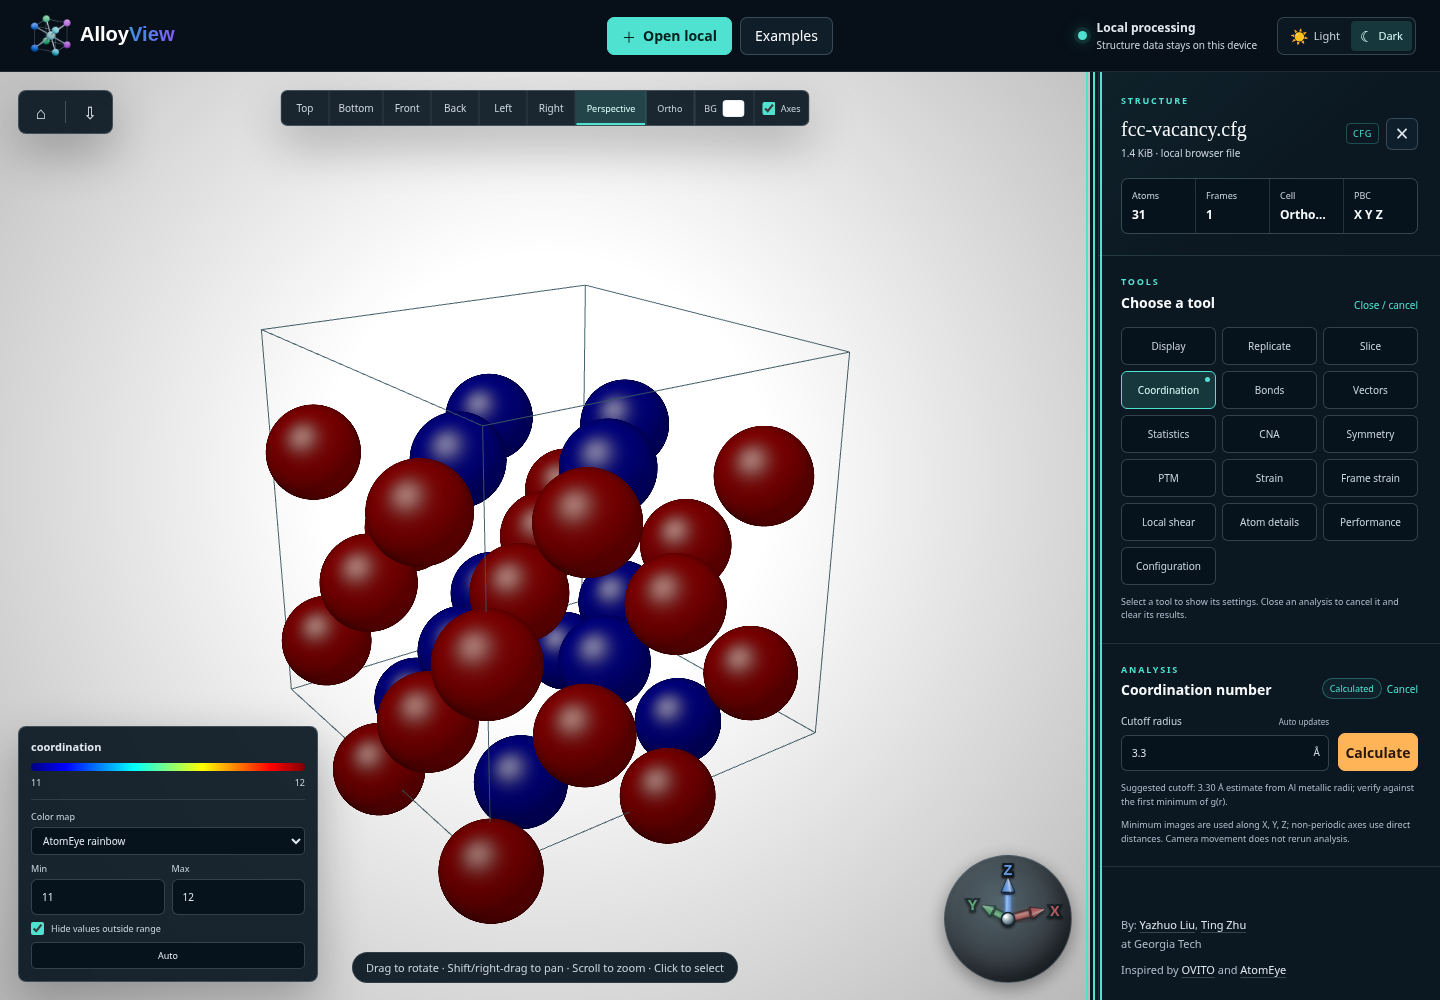
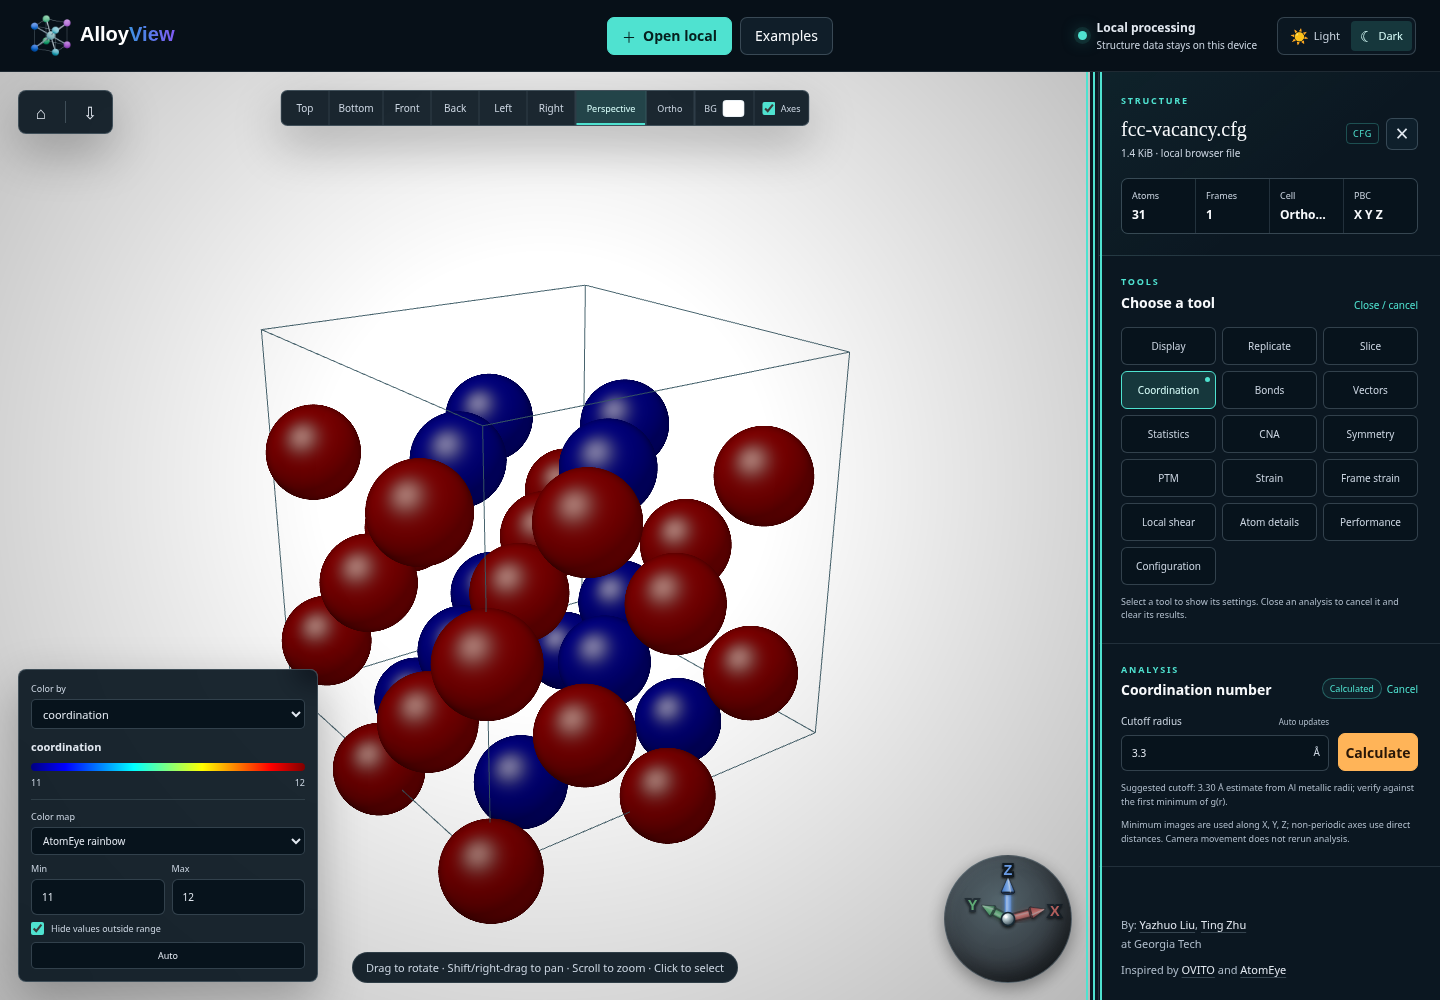
Add coloring quantity selector to the legend

Changed region(s): [[0.0, 0.651, 0.2188, 0.744]]

diff --git a/src/app.js b/src/app.js
@@ -125,6 +125,7 @@ let sourceFetchController = null;
 let sourceLoadingOwner = null;
 let renderer;
 let atomEyeTools;
+let colorChoiceVersion = 0;
 let backgroundCustomized = false;
 let sliceControls;
 let sliceGizmo;
@@ -218,6 +219,7 @@ atomEyeTools = initializeAtomEyeTools({
   refresh: () => { if (state.frame) { refreshColorOptions(); applyColors(); updateSelectionPanel(); } },
   chooseProperty: name => { state.colorMode = `property:${name}`; refreshColorOptions(); applyColors(); },
   getColorMode: () => state.colorMode,
+  getColorChoiceVersion: () => colorChoiceVersion,
   getExportOptions: () => ({ includeBackground: elements['png-background'].checked,
     includeAxes: elements['png-axes'].checked, legend: elements['png-legend'].checked ? paletteForCurrentMode().legend : null }),
   showFrame, stopPlayback: stopFramePlayback,
@@ -265,8 +267,7 @@ elements['frame-next'].addEventListener('click', () => showFrameManually(Math.mi
 elements['frame-last'].addEventListener('click', () => showFrameManually(state.frameCount - 1));
 
 elements['color-mode'].addEventListener('change', () => {
-  state.colorMode = elements['color-mode'].value;
-  applyColors();
+  selectColorMode(elements['color-mode'].value);
 });
 elements['coordinate-mode'].addEventListener('change', updateCoordinateMode);
 elements['radius-scale'].addEventListener('input', () => setRadiusPercent(elements['radius-scale'].value, { source: 'slider' }));
@@ -1209,6 +1210,16 @@ function updateCoordinateMode() {
   atomEyeTools.syncComparison();
 }
 
+function selectColorMode(value) {
+  if (!state.frame || ![...elements['color-mode'].options].some(item => item.value === value)) return;
+  interruptConfigurationRestore('a color quantity change');
+  atomEyeTools.cancelBatch({ restore: false });
+  colorChoiceVersion++;
+  state.colorMode = value;
+  elements['color-mode'].value = value;
+  applyColors();
+}
+
 function refreshColorOptions() {
   const previous = state.colorMode;
   elements['color-mode'].replaceChildren(option('type', 'Atom type'));
@@ -1222,8 +1233,13 @@ function refreshColorOptions() {
     elements['color-mode'].append(option('property:coordination', 'coordination (calculating…)'));
   }
   for (const [kind, { name, label, prefix }] of Object.entries(ANALYSES)) {
-    if (state.analysis[kind].enabled && !propertyNames.has(name) && elements[`${prefix}-state`].textContent !== 'Failed') {
-      elements['color-mode'].append(option(`property:${name}`, `${label} (calculating…)`));
+    if (state.analysis[kind].enabled && elements[`${prefix}-state`].textContent !== 'Failed') {
+      const outputs = kind === 'strain' ? STRAIN_FIELDS.map(field => [field, field === name ? label : field])
+        : kind === 'ptm' ? [[name, label], ['ptmRmsd', 'PTM RMSD (best fit)'], ['ptmDistance', 'PTM nearest-neighbor distance [Å]']]
+          : [[name, label]];
+      for (const [field, fieldLabel] of outputs) {
+        if (!propertyNames.has(field)) elements['color-mode'].append(option(`property:${field}`, `${fieldLabel} (calculating…)`));
+      }
     }
   }
   if (state.analysis.centrosymmetry.enabled && state.analysis.centrosymmetry.parameters?.mode === 'auto'
@@ -1232,6 +1248,9 @@ function refreshColorOptions() {
       ['centralSymmetryNeighbors', 'Central symmetry neighbor count']]) {
       if (!propertyNames.has(name)) elements['color-mode'].append(option(`property:${name}`, `${label} (calculating…)`));
     }
+  }
+  for (const { name, label } of atomEyeTools.pendingColorProperties()) {
+    if (!propertyNames.has(name)) elements['color-mode'].append(option(`property:${name}`, `${label} (calculating…)`));
   }
   const available = [...elements['color-mode'].options].some((item) => item.value === previous);
   state.colorMode = available ? previous : 'type';
@@ -1826,6 +1845,26 @@ function updateSelectionPanel(index = null) {
 
 function renderLegend(legend) {
   elements.legend.replaceChildren();
+  const propertyControl = document.createElement('label');
+  propertyControl.className = 'legend-property';
+  const propertyLabel = document.createElement('span');
+  propertyLabel.textContent = 'Color by';
+  const propertySelect = document.createElement('select');
+  propertySelect.id = 'legend-color-mode';
+  for (const sourceOption of elements['color-mode'].options) {
+    const item = option(sourceOption.value, sourceOption.textContent);
+    item.disabled = sourceOption.disabled;
+    propertySelect.append(item);
+  }
+  propertySelect.value = state.colorMode;
+  propertySelect.title = propertySelect.selectedOptions[0]?.textContent ?? 'Choose the coloring quantity';
+  propertySelect.addEventListener('change', () => {
+    const focused = document.activeElement === propertySelect;
+    selectColorMode(propertySelect.value);
+    if (focused) document.getElementById('legend-color-mode')?.focus({ preventScroll: true });
+  });
+  propertyControl.append(propertyLabel, propertySelect);
+  elements.legend.append(propertyControl);
   const title = document.createElement('div');
   title.className = 'legend-title';
   const label = document.createElement('strong');

diff --git a/src/atomeye-tools.js b/src/atomeye-tools.js
@@ -3,7 +3,7 @@ import { radiusForElement } from './render/atomic-radii.js';
 import { colorsByType } from './render/palette.js';
 import { WebGLRenderer } from './render/webgl-renderer.js';
 import { replaceAnalysisProperty, clearAnalysisResults } from './analysis/results.js';
-import { createReferenceMappingAsync } from './analysis/reference-strain.js';
+import { createReferenceMappingAsync, REFERENCE_STRAIN_FIELDS } from './analysis/reference-strain.js';
 import { measureAtoms } from './measurements.js';
 import { createImageArchive, downloadBlob } from './export-archive.js';
 import { imageToEps } from './export-eps.js';
@@ -27,7 +27,7 @@ const canvasBlob = (canvas, type = 'image/png') => new Promise((resolve, reject)
  * display-only settings and invalidates pending results on source/frame edits. */
 export function initializeAtomEyeTools({ renderer, pool, tools, getFrame, getFrameAt,
   getFrameIndex, getFrameCount, getFrames, getSourceVersion, getSelectedIndex,
-  selectAtom, refresh, chooseProperty, getColorMode, getExportOptions, showFrame,
+  selectAtom, refresh, chooseProperty, getColorMode, getColorChoiceVersion = () => 0, getExportOptions, showFrame,
   stopPlayback, getFileStem, notify = () => {}, onEdit = () => {}, onMemoryChange = () => {} }) {
   const jobs = Object.fromEntries(Object.keys(JOBS).map(kind => [kind, { enabled: false, parameters: null, controller: null, request: 0 }]));
   let generation = 0, measurements = [], appearance = { elements: [], atoms: [] };
@@ -90,7 +90,7 @@ export function initializeAtomEyeTools({ renderer, pool, tools, getFrame, getFra
       job.controller?.abort();
       const controller = new AbortController(), request = ++job.request;
       job.controller = controller;
-      const source = getSourceVersion(), token = generation, parameters = { ...job.parameters };
+      const source = getSourceVersion(), token = generation, colorChoice = getColorChoiceVersion(), parameters = { ...job.parameters };
       const key = JSON.stringify(parameters);
       const current = () => frame === getFrame() && source === getSourceVersion() && token === generation
         && request === job.request && job.enabled && !controller.signal.aborted;
@@ -144,7 +144,7 @@ export function initializeAtomEyeTools({ renderer, pool, tools, getFrame, getFra
             }
           }
         }
-        if (!automatic && JOBS[kind].property) chooseProperty(JOBS[kind].property);
+        if (!automatic && JOBS[kind].property && colorChoice === getColorChoiceVersion()) chooseProperty(JOBS[kind].property);
         else refresh();
         stateFor(kind, 'Calculated', `${kind === 'bonds' ? `${result.count.toLocaleString()} bonds · ` : ''}${(result.elapsedMs / 1000).toFixed(2)} s · ${result.engine}`);
         onMemoryChange(frame); updateStatistics(); syncComparison();
@@ -544,6 +544,11 @@ export function initializeAtomEyeTools({ renderer, pool, tools, getFrame, getFra
     refresh: () => { updateStatistics(); updateMeasurements(); applyRadii(); },
     deactivate: name => { if (name === 'statistics') cancel('rdf'); else if (name === 'vectors') { $('show-vectors').checked = false; updateVectors(); } else if (JOBS[name]) cancel(name); },
     failed: () => Object.entries(JOBS).filter(([, { prefix }]) => $(`${prefix}-state`).textContent === 'Failed').map(([kind]) => kind),
+    pendingColorProperties: () => Object.entries(JOBS).flatMap(([kind, { prefix, property }]) =>
+      jobs[kind].enabled && property && $(`${prefix}-state`).textContent !== 'Failed'
+        ? (kind === 'referenceStrain' ? REFERENCE_STRAIN_FIELDS : [property]).map(name => ({
+          name, label: name === 'bondCoordination' ? 'Coordination (bond cutoffs)' : name,
+        })) : []),
   };
 }
 

diff --git a/styles.css b/styles.css
@@ -260,6 +260,8 @@ button:focus-visible, input:focus-visible, select:focus-visible, canvas:focus-vi
 
 .legend { position: absolute; z-index: 3; left: 18px; bottom: 18px; min-width: 190px; max-width: 300px; border: 1px solid var(--line-strong); border-radius: 8px; padding: 12px; background: var(--overlay); backdrop-filter: blur(12px); box-shadow: var(--shadow); }
 .legend[hidden] { display: none; }
+.legend-property { display: grid; min-width: 0; gap: 4px; margin-bottom: 10px; color: var(--muted); font-size: 9px; }
+.legend-property select { width: 100%; max-width: 100%; min-width: 0; height: 30px; padding: 0 7px; border: 1px solid var(--line-strong); border-radius: 5px; color: var(--text-soft); background: var(--control-bg); font-size: 11px; text-overflow: ellipsis; }
 .legend-title { display: flex; justify-content: space-between; color: var(--text-soft); font-size: 11px; margin-bottom: 9px; }
 .legend-title span { color: var(--muted); }
 .legend-items { display: flex; flex-wrap: wrap; gap: 7px 12px; }
@@ -522,7 +524,7 @@ input[type="color"] { width: 100%; height: 36px; border: 1px solid var(--line-st
   .legend-items.crystal-items { gap: 3px; }
   .crystal-items .legend-item { min-height: 30px; font-size: 11px; }
   .crystal-items input { width: 16px; height: 16px; }
-  .legend-controls input, .legend-scheme select { height: 34px; }
+  .legend-controls input, .legend-scheme select, .legend-property select { height: 34px; }
   .tool-selector button[data-tool-button] { min-height: 42px; font-size: 11px; }
   .structure-summary { padding: 12px 16px; }
   .structure-summary .filename-row { margin-top: 5px; gap: 8px; }

diff --git a/docs/USER_GUIDE.md b/docs/USER_GUIDE.md
@@ -59,8 +59,17 @@ is available to run the suggested cutoff without editing it.
 
 ## Scalar color legends
 
-Choose a scalar property under **Color by**, then select a palette in its
-viewport legend. The ten maps are AtomEye rainbow, Viridis, Plasma, Magma,
+Use **Color by** at the top of the viewport legend to switch between atom
+types, input properties and completed analysis quantities. The same selector
+under **Display** stays synchronized. Changing the quantity reuses existing
+results; it does not start another calculation. The selector is also available
+for crystal classifications and fields containing only NaN values. On phones,
+expand **Legend / atoms** to access it.
+Enabled analysis quantities remain selected while their results update for a
+different frame.
+
+For scalar properties, choose a palette below the quantity selector.
+The ten maps are AtomEye rainbow, Viridis, Plasma, Magma,
 Inferno, Cividis, Turbo, Spectral, Cool–warm and Grayscale. The selected colors
 also appear in exported PNG legends.
 
@@ -69,7 +78,10 @@ maximum follow that property's data in the current frame. Click **Auto** to
 turn it off and keep the displayed limits. Editing either limit also turns
 Auto off. Those fixed limits survive frame changes, analysis-result reuse and
 switching away from and back to that color property. Each scalar property keeps
-its own range and Auto setting. Click **Auto** while it is off to fit the
+its own palette, range and Auto setting. Configurations save the selected
+quantity along with these settings. Cancelling an analysis removes its
+quantities from both selectors; cancelling the displayed quantity returns to
+atom-type colors. Click **Auto** while it is off to fit the
 current frame and resume automatic limits. Uniform-valued data gets a small
 range padding so both limits remain editable.
 

diff --git a/README.md b/README.md
@@ -64,7 +64,9 @@ are on the right. Switch between **Light** and **Dark** in the top bar.
   and PTM kernels are reused, with preparation stages and PTM atom progress.
 - Per-analysis Cancel controls stop computation and reset results and frame
   caches while keeping input settings and other analyses.
-- Atom-type colors and ten scalar color maps, with an Auto range toggle,
+- A legend **Color by** selector for switching between available properties and
+  completed analysis quantities, synchronized with the Display controls.
+  Atom-type colors and ten scalar color maps, with an Auto range toggle,
   editable limits that stay fixed across frames, and optional filtering of
   out-of-range atoms.
 - PNG export with independent background, legend and XYZ-arrow controls,
@@ -113,7 +115,9 @@ WebGL 2 support. No installation or account is needed.
    Select a tool button to open its settings; switch tools
    to keep analyses running, or close an analysis to cancel it and reset results.
 4. **Analyze.** Check the suggested cutoff under **Coordination number** and
-   click **Calculate**. The scalar legend lets you choose a color map and
+   click **Calculate**. Use **Color by** in the viewport legend to switch
+   between available quantities without recalculating. The scalar legend also
+   lets you choose a color map and
    adjust the visible range. Highlighted **Auto** follows the current frame;
    editing either limit turns Auto off and preserves that property's limits
    across frames. Click **Auto** again to fit the current frame and resume

diff --git a/docs/VALIDATION.md b/docs/VALIDATION.md
@@ -2,6 +2,23 @@
 
 Validation date: 2026-10-03 (America/New_York)
 
+## Legend coloring quantity selector
+
+- `npm test`: 280 tests passed, none failed/skipped. Build
+  `25d067f19029b2fa` and the complete browser smoke with both screenshot flags
+  passed with no page or GL errors.
+- The legend and Display quantity selectors stay synchronized for imported
+  scalars, entirely NaN fields, CNA/PTM/Auto symmetry, bond coordination, local
+  shear and reference strain. Switching quantities starts no analysis jobs.
+- Fixed bounds, palettes and Auto settings survive quantity changes and fresh
+  or cached frame transitions. Pending enabled outputs stay selected until
+  calculation completes. A manual choice during calculation is retained when
+  an earlier analysis finishes; cancelling a displayed analysis removes its
+  fields and falls back to atom types. JSON saves the selected quantity.
+- Actual phone touch and keyboard selection preserve focus after legend
+  redraw. Desktop and phone screenshots were inspected; the full-width dropdown
+  fits above existing controls and the phone legend retains its collapse behavior.
+
 ## AtomEye analysis and viewer alignment
 
 Validated on 2026-10-03 with Node.js v24.19.0 and Chromium software WebGL:
